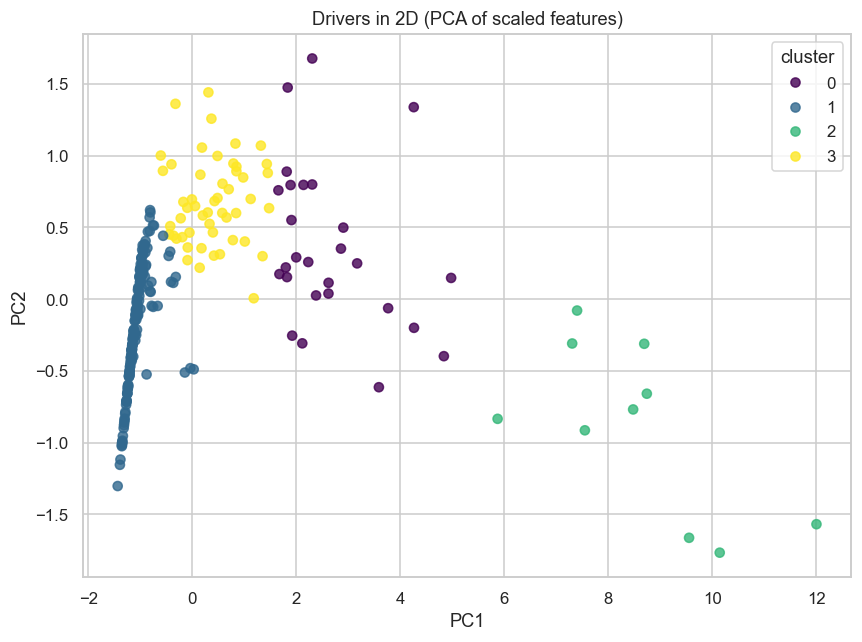
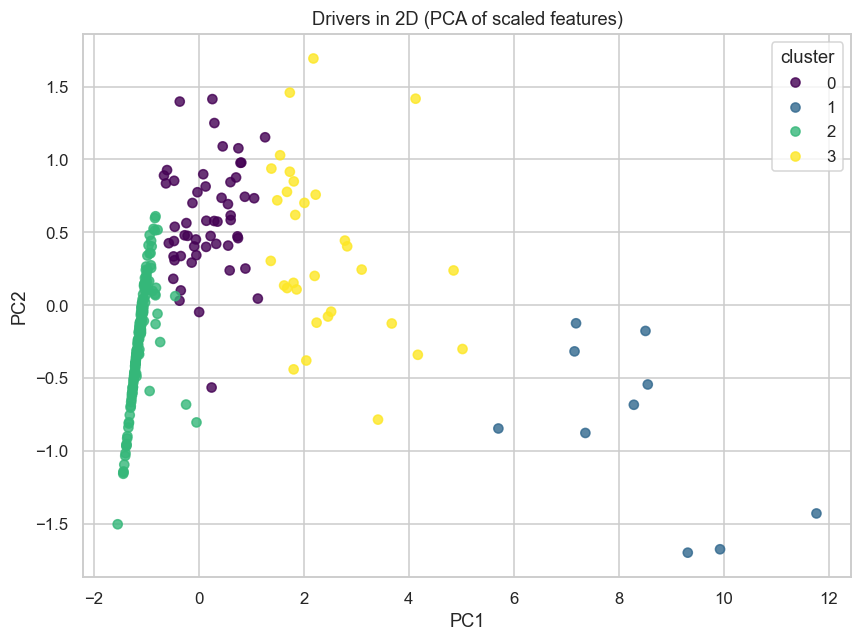
fix: exclude non-starters from finish percentile
results.csv contains 1,548 rows for drivers who never started (DNQ,
DNPQ, 107% rule, grid-less withdrawals) that were counted as last place.
Legends and consistency rankings are unchanged; driver count 257 -> 246
and cluster sizes shift. Details in BASELINE.md.

Changed region(s): [[0.0302, 0.0623, 0.9954, 0.9657], [0.5128, 0.405, 0.5429, 0.4673]]

diff --git a/src/f1/dnf.py b/src/f1/dnf.py
@@ -1,4 +1,6 @@
-"""Keyword-based DNF reason classifier (to be replaced by a trained model)."""
+"""DNF reason classification and non-starter detection."""
+
+import pandas as pd
 
 FINISHED = {"finished", "+1 lap", "+2 laps", "+3 laps", "+4 laps", "+5 laps"}
 ACCIDENT_KEYWORDS = ("collision", "accident", "spun", "run off")
@@ -22,3 +24,22 @@ def classify_dnf(status: object) -> str:
     if any(word in text for word in MECHANICAL_KEYWORDS):
         return "Car/Mechanical Failure"
     return "Other"
+
+# Entries that never took the start: always excluded, whatever the grid says.
+NON_START_ALWAYS = {
+    "did not qualify",
+    "did not prequalify",
+    "107% rule",
+    "safety concerns",
+    "underweight",
+}
+# Ambiguous statuses: a non-start only when the driver had no grid slot.
+NON_START_IF_NO_GRID = {"withdrew", "excluded", "injured", "injury"}
+
+
+def non_starter_mask(df: pd.DataFrame) -> pd.Series:
+    """True for result rows that never started (DNQ, DNPQ, 107% rule, grid-less withdrawals)."""
+    status = df["status"].str.lower()
+    grid = df["grid"] if "grid" in df else pd.Series(0, index=df.index)
+    no_grid = grid.fillna(0) == 0
+    return status.isin(NON_START_ALWAYS) | (status.isin(NON_START_IF_NO_GRID) & no_grid)

diff --git a/tests/test_dnf.py b/tests/test_dnf.py
@@ -1,6 +1,7 @@
+import pandas as pd
 import pytest
 
-from f1.dnf import classify_dnf
+from f1.dnf import classify_dnf, non_starter_mask
 
 
 @pytest.mark.parametrize(
@@ -17,3 +18,25 @@ from f1.dnf import classify_dnf
 )
 def test_classify_dnf(status, expected):
     assert classify_dnf(status) == expected
+
+
+def test_non_starter_mask_flags_qualifying_failures_regardless_of_grid():
+    df = pd.DataFrame(
+        {
+            "status": ["Did not qualify", "Did not prequalify", "107% Rule", "Finished"],
+            "grid": [5, 0, 3, 1],
+        }
+    )
+    assert non_starter_mask(df).tolist() == [True, True, True, False]
+
+
+def test_non_starter_mask_flags_withdrawals_only_without_a_grid_slot():
+    df = pd.DataFrame(
+        {"status": ["Withdrew", "Withdrew", "Excluded", "Collision"], "grid": [0, 7, 0, 0]}
+    )
+    assert non_starter_mask(df).tolist() == [True, False, True, False]
+
+
+def test_non_starter_mask_treats_missing_grid_as_no_slot():
+    df = pd.DataFrame({"status": ["Withdrew"], "grid": [None]})
+    assert non_starter_mask(df).tolist() == [True]

diff --git a/tests/test_features.py b/tests/test_features.py
@@ -106,3 +106,24 @@ def test_pace_consistency_is_independent_of_circuit_length():
     short = pace_consistency(_laps(1)).set_index("Driver Name")
     long_ = pace_consistency(_laps(2.5)).set_index("Driver Name")
     pd.testing.assert_frame_equal(short, long_, rtol=1e-3)
+
+
+def test_build_master_excludes_non_starters_from_finish_percentile():
+    results = pd.DataFrame(
+        {
+            "raceId": [1] * 5,
+            "driverId": [1, 2, 3, 4, 5],
+            "statusId": [1, 1, 1, 3, 3],
+            "positionOrder": [1, 2, 3, 4, 5],
+            "grid": [1, 2, 3, 0, 0],
+            "points": ["10", "6", "4", "0", "0"],
+        }
+    )
+    drivers = pd.DataFrame(
+        {"driverId": [1, 2, 3, 4, 5], "forename": list("abcde"), "surname": list("vwxyz")}
+    )
+    status = pd.DataFrame({"statusId": [1, 3], "status": ["Finished", "Did not qualify"]})
+    master = build_master(results, drivers, status)
+    assert len(master) == 3
+    assert master["starters"].eq(3).all()
+    assert master.loc[master.positionOrder == 3, "finish_pct"].iloc[0] == 0.0

diff --git a/src/f1/features.py b/src/f1/features.py
@@ -6,6 +6,8 @@ import pandas as pd
 from sklearn.cluster import KMeans
 from sklearn.preprocessing import RobustScaler
 
+from f1.dnf import non_starter_mask
+
 MAX_PACE_RATIO = 1.07
 MIN_RACES = 20
 CLUSTER_FEATURES = ["Avg Finish Pct", "Podium Rate", "Win Rate"]
@@ -25,8 +27,9 @@ def add_finish_pct(results: pd.DataFrame) -> pd.DataFrame:
 def build_master(
     results: pd.DataFrame, drivers: pd.DataFrame, status: pd.DataFrame
 ) -> pd.DataFrame:
-    """Join results, drivers and status; add driver_name, numeric points and finish_pct."""
+    """Join results, drivers and status; drop non-starters; add driver_name, points, finish_pct."""
     master = results.merge(drivers, on="driverId").merge(status, on="statusId")
+    master = master[~non_starter_mask(master)].reset_index(drop=True)
     master = master.assign(
         driver_name=master["forename"] + " " + master["surname"],
         points=pd.to_numeric(master["points"], errors="coerce").fillna(0),

diff --git a/README.md b/README.md
@@ -33,8 +33,8 @@ Consistency is measured as the standard deviation of each lap time relative to t
 * *Lap time data only exists from 1996, so this metric covers 107 drivers, not the full history.*
 
 ### 2. The "Legend" Tier is Exclusive
-Using K-Means Clustering on *Average Finish Percentile*, *Podium Rate* and *Win Rate* (all era-neutral, scaled with `RobustScaler`), only 10 of 257 drivers fall into the **"Dominant Legends"** category: Fangio, Ascari, Moss, Clark, Stewart, Prost, Senna, Schumacher, Hamilton and Verstappen.
-* **Why k=4:** silhouette and Davies-Bouldin favour k=2 (backmarkers vs everyone else), which is too coarse. k=4 is the finest split with silhouette above 0.5 and perfect seed stability (ARI = 1.0); silhouette drops from 0.56 to 0.46 at k=5. GMM scores lower, and HDBSCAN leaves about half of the drivers (129 of 257) unassigned, so the tiers are a segmentation of a continuum, not natural groups.
+Using K-Means Clustering on *Average Finish Percentile*, *Podium Rate* and *Win Rate* (all era-neutral, scaled with `RobustScaler`), only 10 of 246 drivers fall into the **"Dominant Legends"** category: Fangio, Ascari, Moss, Clark, Stewart, Prost, Senna, Schumacher, Hamilton and Verstappen.
+* **Why k=4:** silhouette and Davies-Bouldin favour k=2 (backmarkers vs everyone else), which is too coarse. k=4 is the finest split with silhouette above 0.5 (0.54) and near-perfect seed stability (ARI = 0.98); at k=5 silhouette drops to 0.43 and stability to 0.56. GMM scores lower, and HDBSCAN leaves 66 of 246 drivers (27%) unassigned, so the tiers are a segmentation of a continuum, not natural groups.
 * Raw points were dropped because the scoring system changed many times (a win was worth 8 points in 1950 and 25 today), which skewed the earlier clusters.
 * The model successfully identified high performing drivers who never won a championship as **"Podium Contenders,"** validating their skill level statistically despite the lack of titles.
 

diff --git a/docs/METHODOLOGY.md b/docs/METHODOLOGY.md
@@ -15,7 +15,7 @@ Lap times start in 1996 (589,081 rows), so the consistency metric covers 107 mod
 - Raw points are not used because scoring changed many times (a win was 8 points in 1950, 25 today).
 
 ## Model
-K-Means (k=4, `RobustScaler`) on finish percentile, podium rate and win rate for drivers with more than 20 races. Clusters are named by mean win rate. k=4 was validated in `f1.clustering`: silhouette, Davies-Bouldin, elbow and seed stability (mean ARI over 10 seeds) for k=2..10, plus GMM and HDBSCAN comparisons. Silhouette/DB favour k=2 (too coarse); k=4 is the finest split with silhouette > 0.5 and ARI = 1.0. GMM scores lower; HDBSCAN marks 129 of 257 drivers as noise, so the tiers segment a continuum rather than reveal natural groups. UMAP was skipped; PCA is used for the 2D view.
+K-Means (k=4, `RobustScaler`) on finish percentile, podium rate and win rate for drivers with more than 20 races. Clusters are named by mean win rate. k=4 was validated in `f1.clustering`: silhouette, Davies-Bouldin, elbow and seed stability (mean ARI over 10 seeds) for k=2..10, plus GMM and HDBSCAN comparisons. Silhouette/DB favour k=2 (too coarse); k=4 is the finest split with silhouette > 0.5 (0.54) and ARI = 0.98 (k=5: silhouette 0.43, ARI 0.56). GMM scores lower; HDBSCAN marks 66 of 246 drivers as noise, so the tiers segment a continuum rather than reveal natural groups. UMAP was skipped; PCA is used for the 2D view.
 
 ## Criteria profile (`f1.profile`)
 Per driver (more than 20 races): finish percentile, win and podium rate, positions gained (grid minus finish, classified finishes from a real grid slot only), driver-error and mechanical DNF rate (share of starts, from the keyword classifier), and teammate delta (finish percentile minus the other driver(s) in the same car and race, kept only with 20+ shared races; 251 of 257 drivers qualify).

diff --git a/BASELINE.md b/BASELINE.md
@@ -38,7 +38,21 @@ Snapshot of the project as of commit `78f7c3b` (2026-01-29). Use this as the "be
 ## Before/after checklist for the article
 - [x] Re-run with era-neutral performance (finish percentile, podium/win rate) instead of raw points; compare against `images/baseline-v1/performance-matrix.png`.
 - [x] Which v1 claims survive, which flip:
-  - Survives: only 10 of 257 drivers are "Dominant Legends" (Moss in, Vettel out); Hunt/Mansell DNF reading unchanged.
+  - Survives: only 10 of 246 drivers are "Dominant Legends" (Moss in, Vettel out); Hunt/Mansell DNF reading unchanged.
   - Changes: Midfielders 14 -> 51, Backmarkers 201 -> 169 (clusters more balanced).
   - Flips: Berger/Hakkinen are no longer the most consistent (Berger is 7th among 50+ race drivers, Hakkinen is 93rd of 107, Brundle 92nd); Hamilton ranks 80/107 and Verstappen 63/107 on consistency.
   - Caveat: lap times exist only from 1996, so consistency covers 107 drivers.
+
+## Update 2: non-starters excluded (data-quality fix)
+`results.csv` includes rows for drivers who never started (Did not qualify 1,025, Did not prequalify 331, 107% rule, grid-less withdrawals). They were counted as last place. They are now dropped in `build_master` (`f1.dnf.non_starter_mask`).
+
+| | Before | After |
+|---|---|---|
+| Result rows | 26,759 | 25,211 |
+| Drivers with 20+ races | 257 | 246 |
+| Dominant Legends | 10 (same names) | 10 (same names) |
+| Backmarkers / Midfielders / Podium Contenders | 169 / 51 / 27 | 151 / 54 / 31 |
+| Hamilton / Verstappen consistency rank | 80 / 63 of 107 | unchanged |
+| Top-10 most consistent | Jos Verstappen ... Coulthard | unchanged |
+| k=4 silhouette / seed stability | 0.56 / 1.00 | 0.54 / 0.98 (k=5: 0.43 / 0.56) |
+| HDBSCAN noise | 129 of 257 | 66 of 246 |
